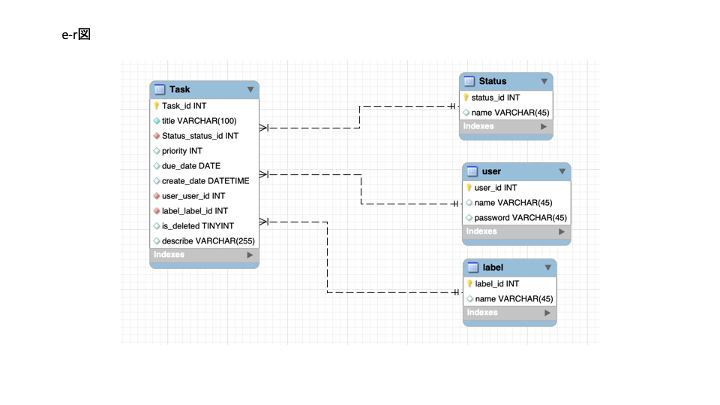
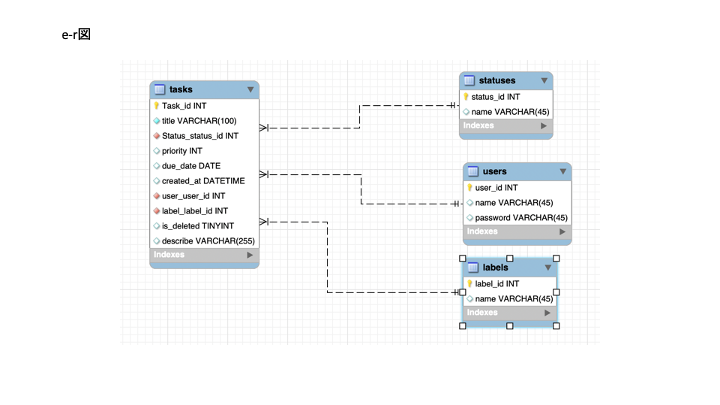
DBテーブル名を複数形に変更

diff --git a/README.md b/README.md
@@ -15,34 +15,34 @@ E-R図
 ![E-R図](https://github.com/KoosukeAbe/training/blob/KoosuleAbe_step4/taskkun/documents/Slide5.png)
 
 ```
-CREATE TABLE Task
+CREATE TABLE tasks
 (
   id INT NOT NULL PRIMARY KEY,
   title VARCHAR(100) NOT NULL,
   description VARCHAR(255),
   importance INT NOT NULL,
-  due_datetime DATE NOT NULL,
-  create_datetime DATETIME NOT NULL,
+  due_date DATE NOT NULL,
+  created_at DATETIME NOT NULL,
   user_id INT NOT NULL,
   status_id INT NOT NULL,
   label_id INT NOT NULL,
   is_deleted BOOLEAN NOT NULL,
 );
 
-CREATE TABLE user
+CREATE TABLE users
 (
   id INT NOT NULL PRIMARY KEY,
   name VARCHAR(30) NOT NULL UNIQUE,
   password VARCHAR(255) NOT NULL,
 );
 
-CREATE TABLE status
+CREATE TABLE statuses
 (
   id INT NOT NULL PRIMARY KEY,
   name VARCHAR NOT NULL UNIQUE,
 );
 
-CREATE TABLE label
+CREATE TABLE labels
 (
   id INT NOT NULL PRIMARY_KEY,
   name VARCHAR(30) NOT NULL UNIQUE,
